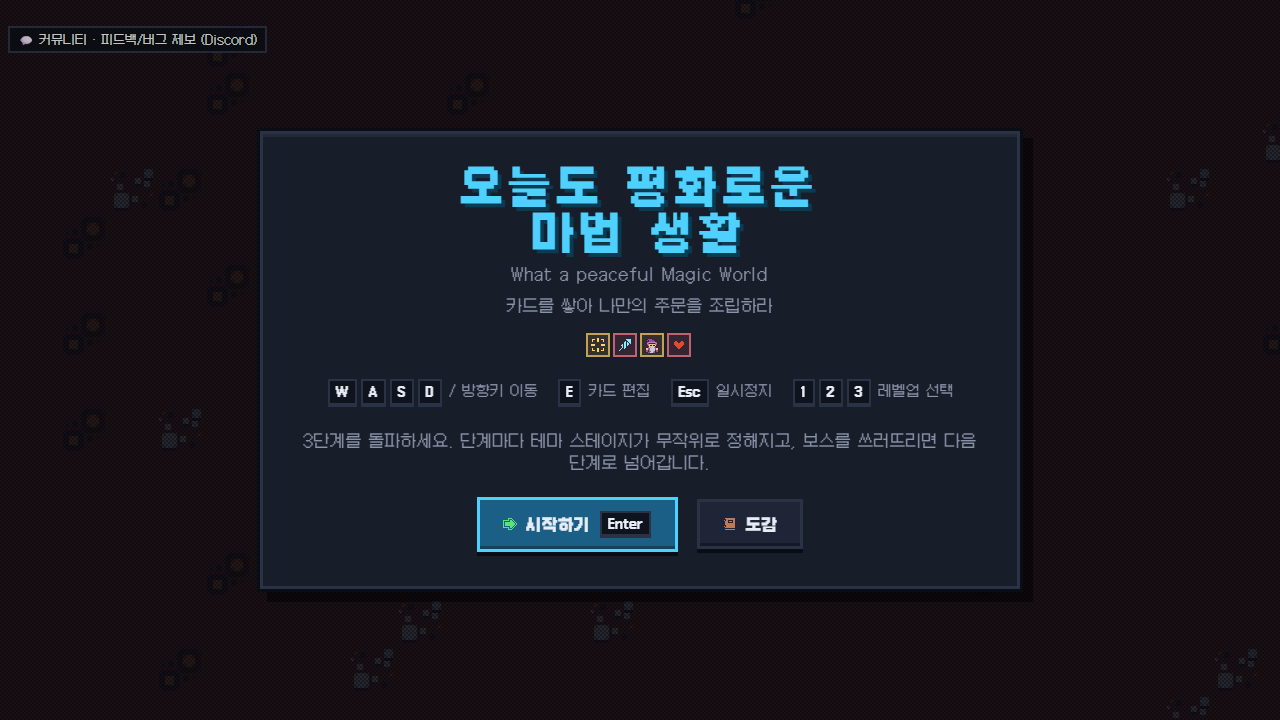
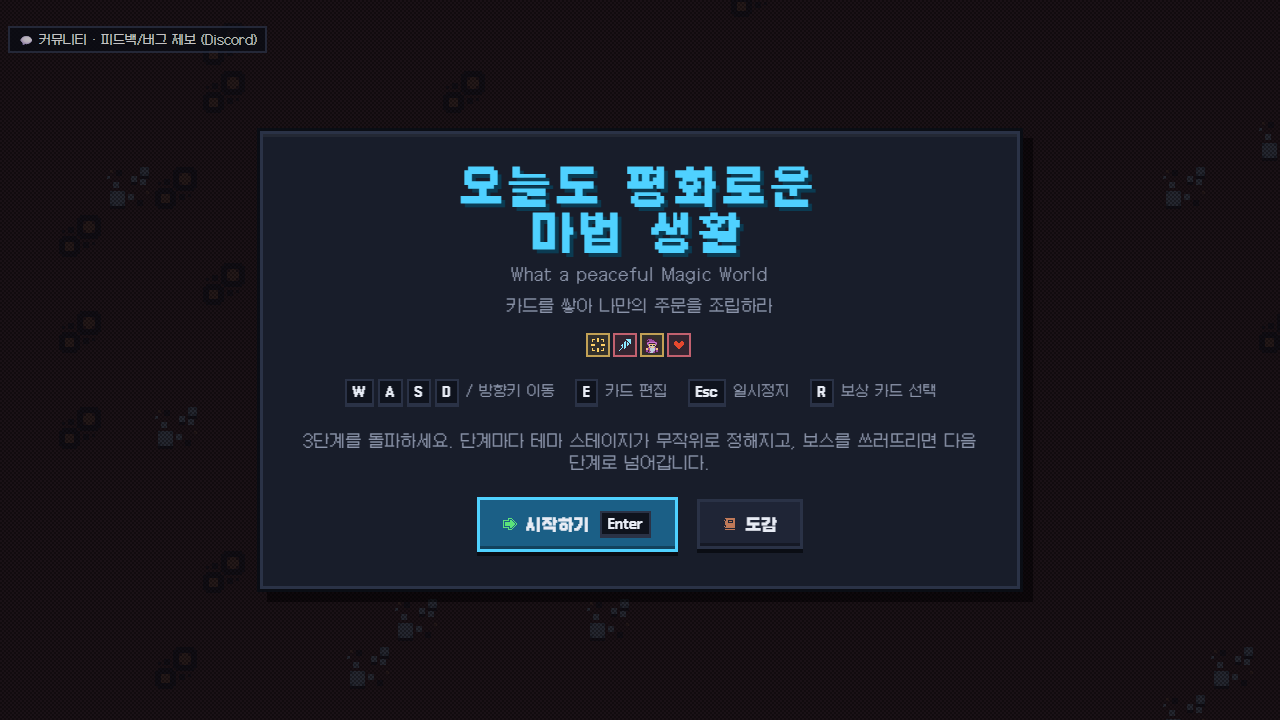
Show R reward-pick hint on the title screen instead of 1 2 3
Rewards now stack in a list opened with R and picked with 1-5; update the
JS and C title hints and the README title screenshot.

diff --git a/js/ui/overlay.js b/js/ui/overlay.js
@@ -68,7 +68,7 @@ Object.assign(UI, {
           <span><kbd>W</kbd><kbd>A</kbd><kbd>S</kbd><kbd>D</kbd> / 방향키 이동</span>
           <span><kbd>E</kbd> 카드 편집</span>
           <span><kbd>Esc</kbd> 일시정지</span>
-          <span><kbd>1</kbd><kbd>2</kbd><kbd>3</kbd> 레벨업 선택</span>
+          <span><kbd>R</kbd> 보상 카드 선택</span>
         </div>
         <p class="sub" style="margin-bottom:18px">3단계를 돌파하세요. 단계마다 테마 스테이지가 무작위로 정해지고, 보스를 쓰러뜨리면 다음 단계로 넘어갑니다.</p>
         <button class="btn primary" data-act="start">${this.iconHtml('uiPlay', 16)}시작하기 <kbd>Enter</kbd></button>

diff --git a/c/render/ui.c b/c/render/ui.c
@@ -399,7 +399,7 @@ static float title_body(const World *w, float x, float y, float cw) {
   y += 26 + 22;
   // 조작 키
   typedef struct { const char *keys[4]; const char *label; } KeyHint;
-  static const KeyHint KEYS[] = { { { "W", "A", "S", "D" }, " / 방향키 이동" }, { { "E" }, " 카드 편집" }, { { "Esc" }, " 일시정지" }, { { "1", "2", "3" }, " 레벨업 선택" } };
+  static const KeyHint KEYS[] = { { { "W", "A", "S", "D" }, " / 방향키 이동" }, { { "E" }, " 카드 편집" }, { { "Esc" }, " 일시정지" }, { { "R" }, " 보상 카드 선택" } };
   float widths[4], total = 0;
   for (int i = 0; i < 4; i++) {
     widths[i] = tw(FONT_REGULAR, 14, KEYS[i].label);
